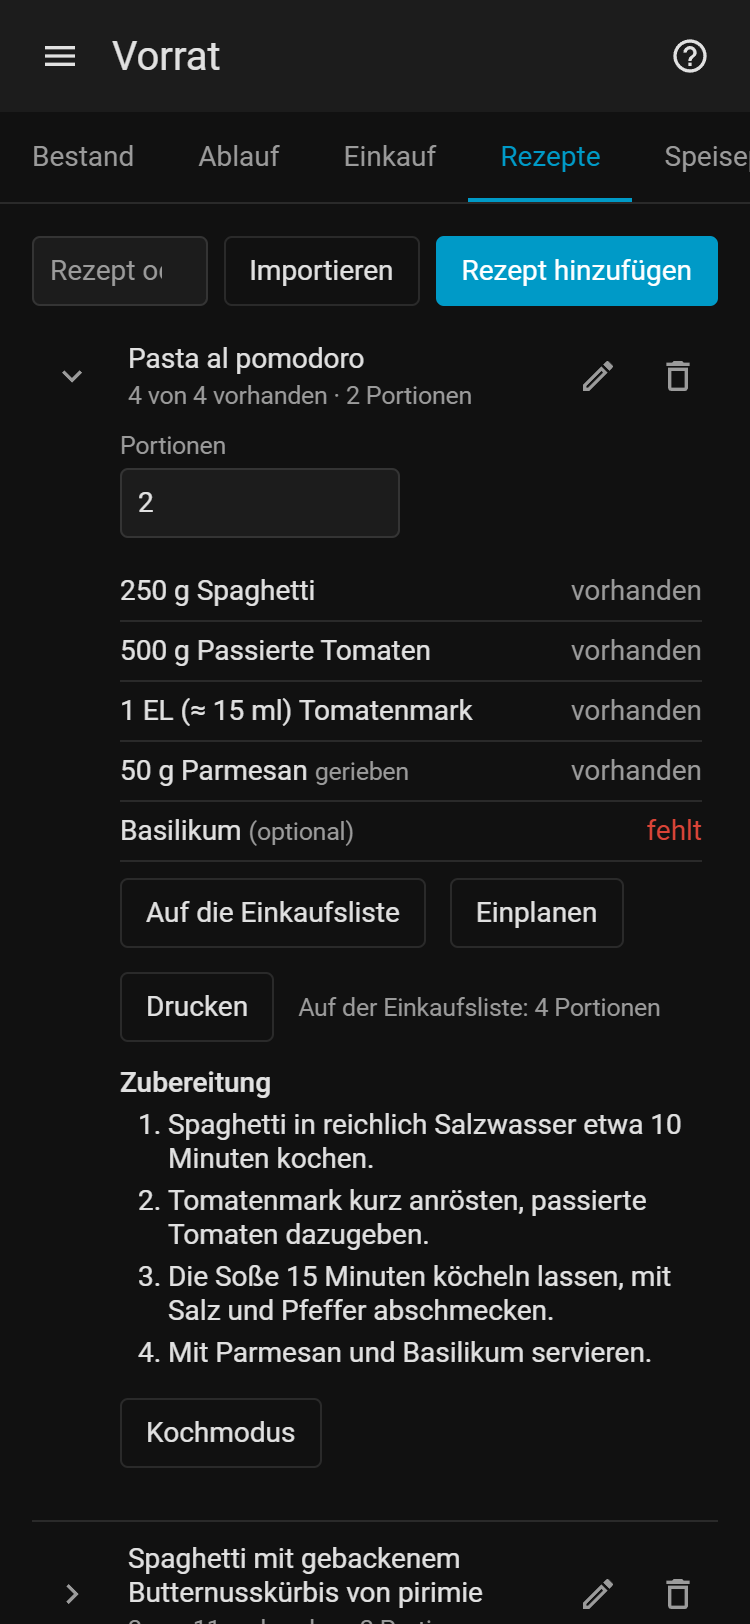
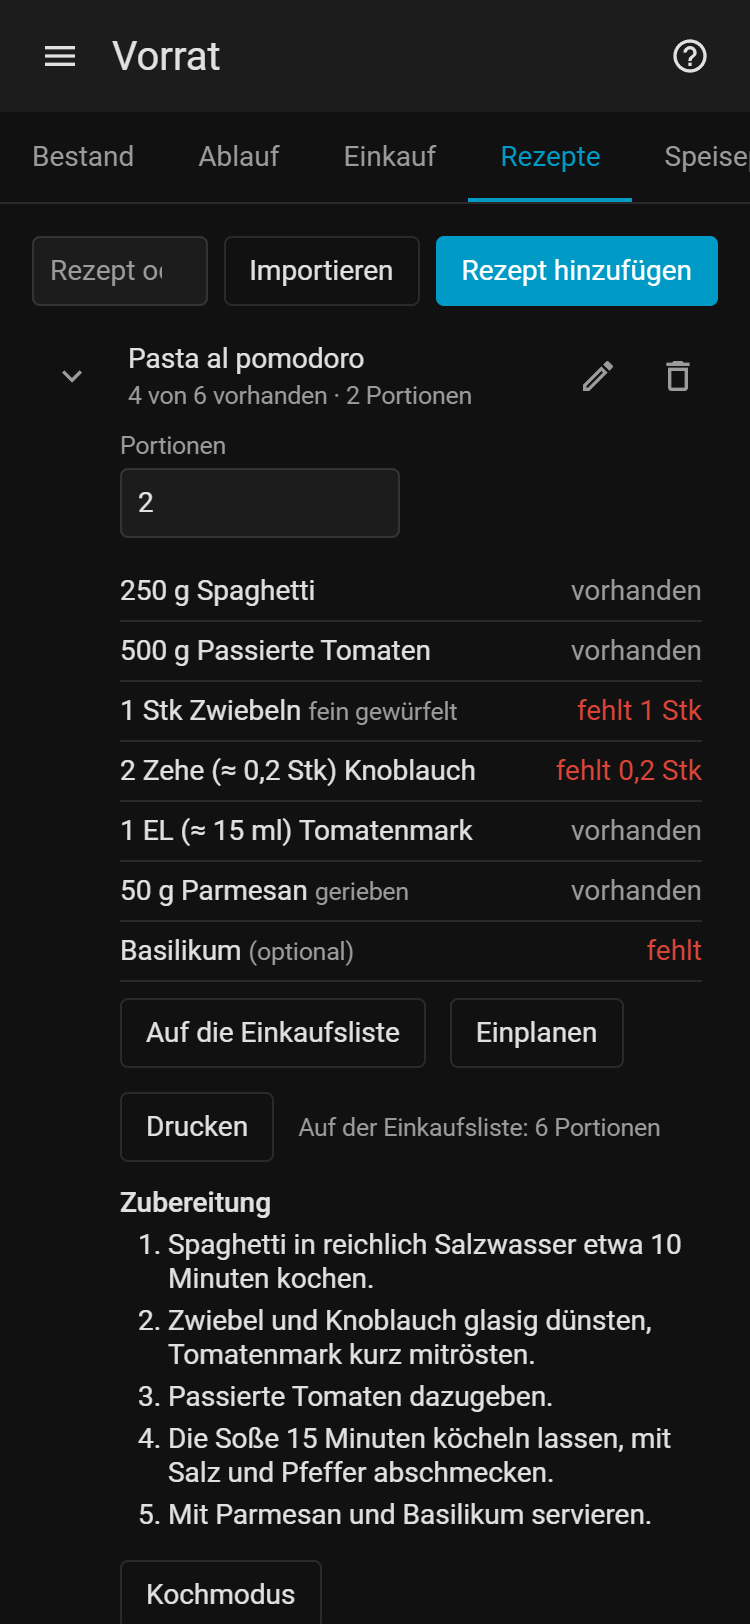
Show real shopping items in the guide screenshot (#47)

diff --git a/frontend/e2e/screenshots.docs.ts b/frontend/e2e/screenshots.docs.ts
@@ -85,20 +85,28 @@ test.beforeAll(async ({ browser }) => {
         ingredients: [
           { category_id: cat("Spaghetti"), amount: 250, unit_id: unit("g") },
           { category_id: cat("Passierte Tomaten"), amount: 500, unit_id: unit("g") },
+          {
+            category_id: cat("Zwiebeln"),
+            amount: 1,
+            unit_id: unit("Stück"),
+            note: "fein gewürfelt",
+          },
+          { category_id: cat("Knoblauch"), amount: 2, unit_id: unit("Zehe") },
           { category_id: cat("Tomatenmark"), amount: 1, unit_id: unit("Esslöffel") },
           { category_id: cat("Parmesan"), amount: 50, unit_id: unit("g"), note: "gerieben" },
           { category_id: cat("Basilikum"), optional: true },
         ],
         steps: [
           { text: "Spaghetti in reichlich Salzwasser etwa 10 Minuten kochen." },
-          { text: "Tomatenmark kurz anrösten, passierte Tomaten dazugeben." },
+          { text: "Zwiebel und Knoblauch glasig dünsten, Tomatenmark kurz mitrösten." },
+          { text: "Passierte Tomaten dazugeben." },
           { text: "Die Soße 15 Minuten köcheln lassen, mit Salz und Pfeffer abschmecken." },
           { text: "Mit Parmesan und Basilikum servieren." },
         ],
       },
     })) as { id: number }
   ).id;
-  await ws(api, { type: "pantry/shopping_recipe_set", recipe_id: recipeId, servings: 4 });
+  await ws(api, { type: "pantry/shopping_recipe_set", recipe_id: recipeId, servings: 6 });
 
   // slots: 0 breakfast, 1 lunch, 3 dinner
   for (const [offset, slot, text, recipe_id] of [
@@ -158,7 +166,7 @@ for (const theme of ["light", "dark"] as const) {
     await shot(page, "expiry", theme);
 
     await openPage(page, "/pantry/shopping", "Einkauf");
-    await expect(page.getByText("Pasta al pomodoro").first()).toBeVisible();
+    await expect(page.getByText("Zwiebeln").first()).toBeVisible();
     await shot(page, "shopping", theme);
 
     await openPage(page, "/pantry/recipes", "Rezepte");
